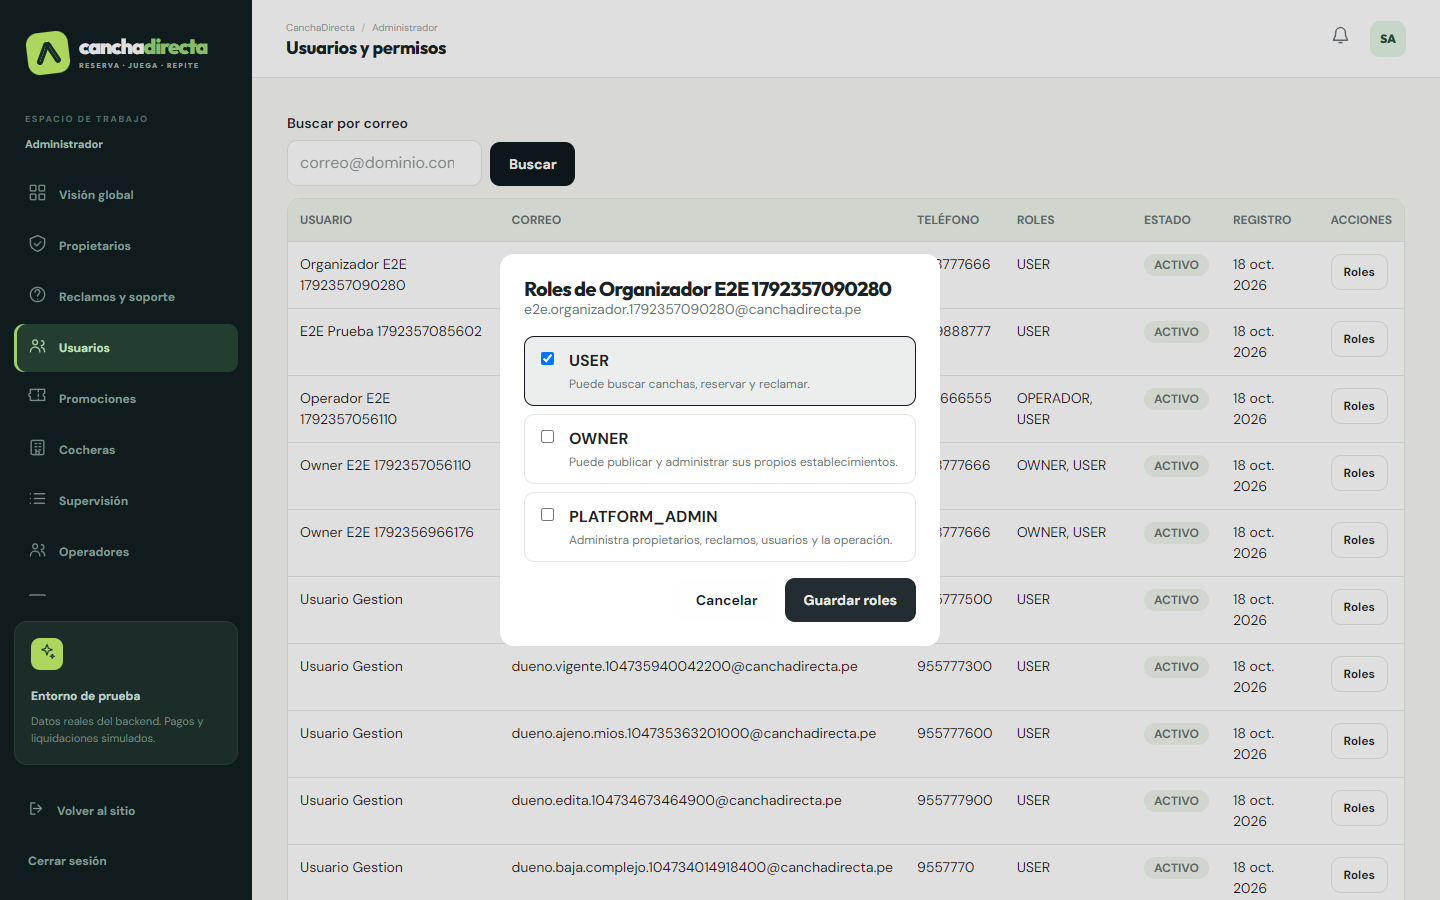
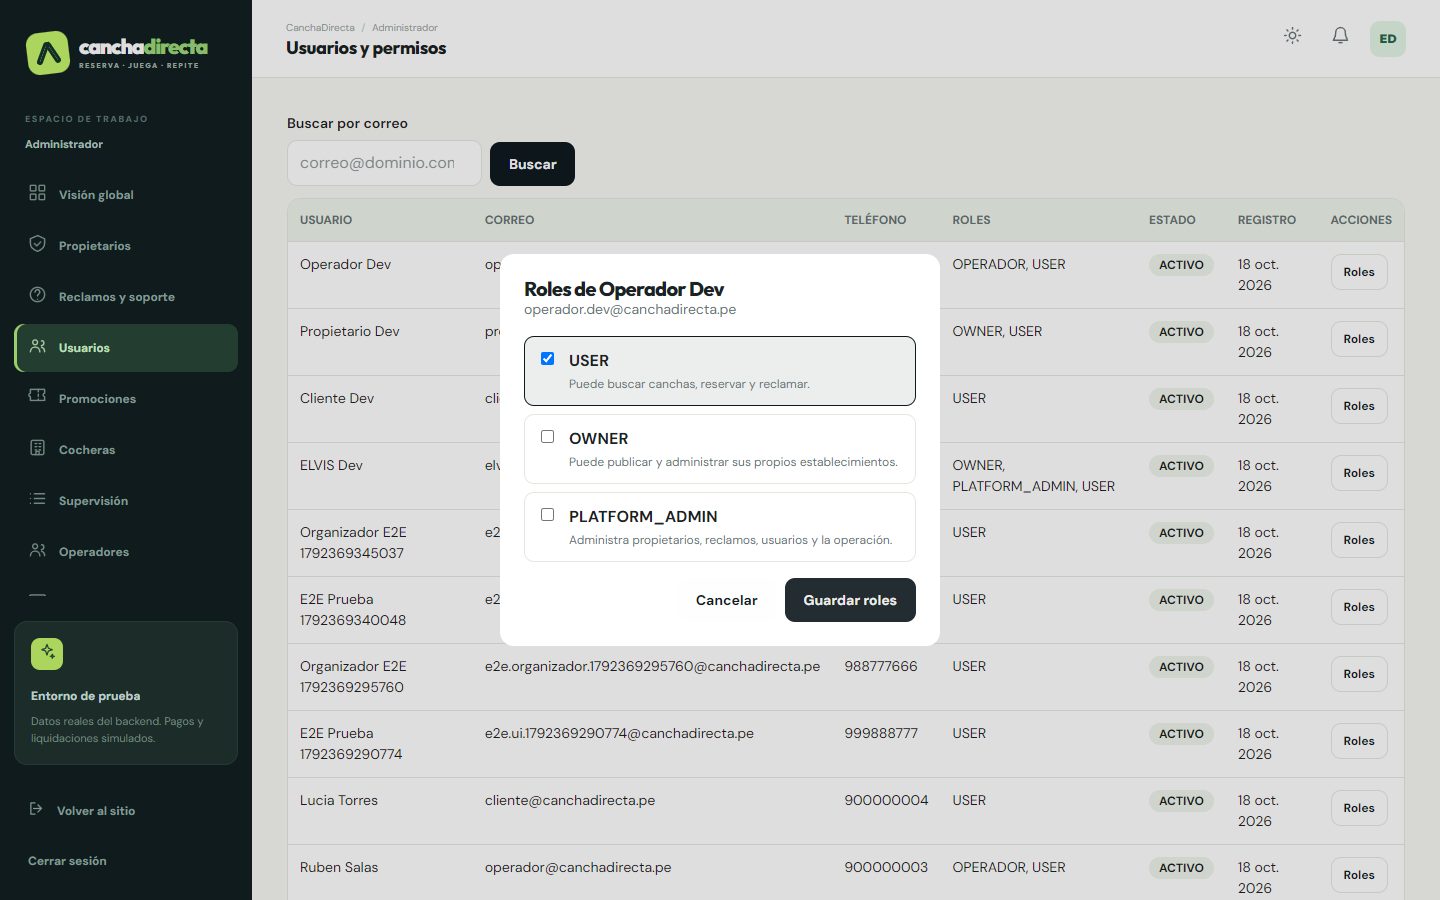
docs: imagenes en la arquitectura, cuentas dev y a11y privado verificado

diff --git a/docs/LIMITACIONES_CONOCIDAS.md b/docs/LIMITACIONES_CONOCIDAS.md
@@ -26,7 +26,7 @@ Solo limites verificados. Se actualiza al cerrarse o descubrirse otros.
 | L-20 | ~~Cambiar rol o estado no revoca los tokens ya emitidos~~ **RESUELTA** | `usuario.token_version` viaja en el JWT (`ver`); un filtro posterior a la autenticacion rechaza tokens con version desactualizada. Se incrementa al cambiar roles, estado o contrasena | - | **Verificado:** `EndurecimientoAccesoTest` y `AdminUsuariosTest` (token viejo `401 UNAUTHENTICATED`) |
 | L-21 | ~~Las promociones son solo catalogo~~ **RESUELTA** | El propietario da de alta sus promociones (ADR-0030) y la reserva aplica `monto_descuento`; el pago y la liquidacion lo toman del total | - | **Verificado:** 10% sobre 80 deja descuento 8.00 y pago 72.00; tope al precio; `409` por codigo invalido; E-31 |
 | L-22 | ~~El backend no expone el listado de establecimientos propios~~ **RESUELTO** | `GET /establecimientos/mios` lista los establecimientos del usuario autenticado | El panel los descubre automáticamente y deja de depender del ID manual/localStorage | Implementado y cubierto por `EdicionYBajaVenuesTest` (propio incluido, ajeno excluido) |
-| L-23 | UI secundaria del frontend pendiente | Alcance priorizado al núcleo de Fase 4 | Resuelto: detalle rediseñado, calendario semanal, paginación, edición de cancha, fotos, edición/baja de establecimiento, reenvío de verificación, admin de promociones/cocheras/roles en modal y E2E de ambos flujos. Revisión de accesibilidad automatizada (2026-10-19): skip link, foco visible, contraste 5.44:1, foco atrapado en modal y visor de fotos, `main`/`h1` únicos, tablas con nombre accesible, paginador que anuncia el rango y foco que pasa al contenido al cambiar de pantalla; cubre también las 12 rutas públicas y de acceso (`A11Y_SIN_SESION=1`), antes fuera de la suite | Pendiente solo revisión manual con lector de pantalla, fuera del alcance de la entrega |
+| L-23 | UI secundaria del frontend pendiente | Alcance priorizado al núcleo de Fase 4 | Resuelto: detalle rediseñado, calendario semanal, paginación, edición de cancha, fotos, edición/baja de establecimiento, reenvío de verificación, admin de promociones/cocheras/roles en modal y E2E de ambos flujos. Revisión de accesibilidad automatizada (2026-10-19): skip link, foco visible, contraste 5.44:1, foco atrapado en modal y visor de fotos, `main`/`h1` únicos, tablas con nombre accesible, paginador que anuncia el rango y foco que pasa al contenido al cambiar de pantalla. 46 rutas PASS: 12 públicas y de acceso (`A11Y_SIN_SESION=1`, incluye `/auth/*`) y 34 privadas con una cuenta `PLATFORM_ADMIN` | Pendiente solo revisión manual con lector de pantalla (guion en `docs/ACCESIBILIDAD_MANUAL.md`) |
 | L-24 | ~~El walk-in pagado en mostrador seguía `PENDIENTE` y no podía hacer check-in~~ **RESUELTA EN LO OPERATIVO** | `RecepcionService.confirmarEnMostrador` confirma la reserva al cobrar en caja (walk-in con pago y `/recepcion/reservas/{id}/cobro`) con traza en el historial y aviso; la tarjeta ofrece check-in a toda `CONFIRMADA` (ADR-0048) | La reserva presencial **sin cuenta** sigue exigiendo un cliente registrado: es una decisión de producto pendiente | **Verificado:** `RecepcionTest`, 4/4 unitarios de la tarjeta, humo PS y Bash (walk-in `CONFIRMADA`, `409` al reconfirmar, cobro que confirma) y E2E propietario/admin (`recepcion-walkin-1440.png`; E-57). Evaluar "cuenta express" si el negocio lo pide |
 | L-25 | ~~El portal de recepcion no gestiona bloqueos de cancha~~ **RESUELTA** | `VenuesRepositorio.esGestorDeCancha` acepta al personal asignado a la sede y la "Agenda del dia" del portal reutiliza `/canchas/{id}/bloqueos` (ADR-0042) | - | **Verificado:** `RecepcionTest` (el operador bloquea y levanta en su sede; `403` en cancha ajena, al crear horarios y con un `USER` sin asignacion) y E2E propietario/admin (alta y baja desde la UI; E-51) |
 | L-26 | ~~El calendario publicado muestra un bloqueo como "Sin cupo", igual que una reserva~~ **RESUELTA** | `GET /canchas/{id}/disponibilidad` agrega `ocupadas[]` con `{inicio,fin,estado}` (`RESERVADA`/`BLOQUEADA`) y la rejilla de la ficha rotula cada hora ocupada con su motivo; los días sin agenda muestran "Cerrado" también en los chips de día | - | **Verificado:** backend 163/163 (`laDisponibilidadDistingueReservaYBloqueo`), humo PS y Bash con la franja reservada/bloqueada, E2E propietario/admin (franja reservada y bloqueada en la rejilla y en la ficha pública, `ficha-motivos-1440.png`; E-56) |

diff --git a/docs/CUENTAS_DESARROLLO.md b/docs/CUENTAS_DESARROLLO.md
@@ -1,0 +1,54 @@
+# Cuentas de desarrollo
+
+Cuentas locales para probar cada perfil. **Solo entorno de desarrollo**: la clave es conocida y
+debil (8 digitos), nunca debe existir en un despliegue real.
+
+Todas las cuentas nuevas se crean con `scripts/usuario-dev.ps1`, que registra la cuenta por la API
+(el backend hashea la clave) y asigna roles y perfil por SQL con las credenciales de `.env`.
+
+## Cuentas nuevas (clave `12345678`)
+
+| Perfil | Correo | Clave | Roles | Pantallas |
+|---|---|---|---|---|
+| Superadministrador | `elvis@canchadirecta.pe` | `12345678` | USER, OWNER, PLATFORM_ADMIN | Todo: publico, cuenta, `/panel`, `/recepcion`, `/admin` |
+| Cliente | `cliente.dev@canchadirecta.pe` | `12345678` | USER | Publico, cuenta (`/mi-resumen`, `/mis-reservas`, ...) |
+| Propietario | `propietario.dev@canchadirecta.pe` | `12345678` | USER, OWNER (propietario validado) | `/panel` y sus secciones |
+| Operador de recepcion | `operador.dev@canchadirecta.pe` | `12345678` | USER, OPERADOR (vinculado a la primera sede) | `/recepcion` y sus secciones |
+
+El propietario y el operador recien creados no tienen canchas ni reservas propias: el panel y la
+recepcion muestran estados vacios hasta que se les asigne un establecimiento. Para datos completos
+usar las cuentas demo.
+
+## Cuentas demo existentes
+
+Se recrean con `.\scripts\demo-reset.ps1 -Force`.
+
+> `demo-reset.ps1 -Force` borra la base: las cuentas de desarrollo (`elvis@`, `*.dev@`) desaparecen.
+> Despues del reset hay que volver a ejecutar `scripts/usuario-dev.ps1` para cada perfil.
+
+| Perfil | Correo | Clave | Notas |
+|---|---|---|---|
+| Cliente | `cliente@canchadirecta.pe` | `DemoCancha2026` | Con reservas y favoritos sembrados |
+| Propietario | `propietario@canchadirecta.pe` | `DemoCancha2026` | Con sedes, canchas, agenda y liquidaciones |
+| Operador | `operador@canchadirecta.pe` | `DemoCancha2026` | Vinculado a la sede demo |
+
+## Superadministrador del `.env`
+
+`ADMIN_CORREO` / `ADMIN_PASSWORD` de `.env` corresponden al administrador que crea
+`demo-reset.ps1`. `scripts/usuario-dev.ps1` no los modifica ni los imprime. Si se cambia esa clave
+en `.env`, el siguiente `demo-reset.ps1 -Force` la vuelve a aplicar.
+
+## Crear o actualizar una cuenta
+
+```powershell
+# Superadministrador (por defecto)
+.\scripts\usuario-dev.ps1
+
+# Otros perfiles
+.\scripts\usuario-dev.ps1 -Correo cliente2@canchadirecta.pe -Nombres Cliente -Rol USER
+.\scripts\usuario-dev.ps1 -Correo propietario2@canchadirecta.pe -Nombres Propietario -Rol OWNER
+.\scripts\usuario-dev.ps1 -Correo operador2@canchadirecta.pe -Nombres Operador -Rol OPERADOR
+```
+
+El script es idempotente: si la cuenta existe, verifica la clave y completa roles y perfil. Si la
+clave no coincide se detiene sin tocar la cuenta (usar otro correo o recuperar la clave).

diff --git a/docs/ARQUITECTURA.md b/docs/ARQUITECTURA.md
@@ -6,6 +6,8 @@ Monolito modular + arquitectura hexagonal (Clean Architecture). Un backend, una 
 MySQL, un frontend Angular. Sin microservicios, mensajeria, Redis ni Kubernetes por
 defecto (ADR-0001).
 
+![Contexto del sistema](evidencias/diagramas/01-contexto.png)
+
 ## 2. Modulos (capacidades de negocio)
 
 | Modulo | Responsabilidad |
@@ -22,6 +24,8 @@ defecto (ADR-0001).
 | `helpcenter` | centro de ayuda: categorias, articulos y busqueda |
 | `platform` | operaciones globales: usuarios/roles, propietarios, supervision, auditoria, configuracion, reportes, promociones y cocheras |
 | `shared` | RFC 9457, seguridad JWT/JWKS, reloj, storage y utilidades transversales |
+
+![Modulos del backend](evidencias/diagramas/03-modulos.png)
 
 ## 3. Capas por modulo
 
@@ -60,6 +64,8 @@ POST /api/v1/bookings  [Idempotency-Key]
   -> (fuera del lock) resultado de pago simulado en nueva transaccion idempotente
   -> transicion CONFIRMADA / CANCELADA + notificacion
 ```
+
+![Secuencia de la reserva concurrente](evidencias/diagramas/04-reserva-concurrente.png)
 
 ### 4.1 Flujo del pago simulado y reembolso (ADR-0020)
 
@@ -117,6 +123,10 @@ servidor, la misma que la llena por defecto) y la finalizacion mide `fin` contra
 (la columna es un literal UTC). Cada job compara contra el mismo marco horario que su columna; ninguno
 depende de la zona del servidor.
 
+### 4.4 Estados de la reserva
+
+![Estados de la reserva](evidencias/diagramas/05-estados-reserva.png)
+
 ## 5. Contrato REST
 
 Bajo `/api/v1`. Errores RFC 9457 (Problem Details) con `code` de negocio
@@ -126,8 +136,10 @@ Bajo `/api/v1`. Errores RFC 9457 (Problem Details) con `code` de negocio
 ## 6. Persistencia
 
 MySQL 8 (host), InnoDB, utf8mb4. **Flyway es dueno del esquema**; Hibernate solo
-valida. Migraciones `V1..V6` (ver `MODELO_DATOS.md`). Usuario de migracion y de
+valida. Migraciones `V1..V18` (ver `MODELO_DATOS.md`). Usuario de migracion y de
 runtime separados (ADR-0009).
+
+![Modelo de datos principal](evidencias/diagramas/07-modelo-datos.png)
 
 ## 7. Frontend
 
@@ -137,9 +149,13 @@ apoyo de UX (nunca unica seguridad), CSS con design tokens y tema claro/oscuro, 
 WCAG 2.2 AA, estados loading/empty/error/success en todas las areas. Los portales se resumen en
 `DIAGRAMAS.md`.
 
+![Portales del frontend](evidencias/diagramas/06-portales-frontend.png)
+
 ## 8. Infraestructura
 
 Dockerfiles multi-stage no-root, Nginx con fallback SPA y proxy `/api`, Compose con variante
 host (`host.docker.internal`) y variante MySQL aislado (`compose.mysql.yml`, :3309), healthchecks,
 JWKS montado de solo lectura, `.env.example` y `.dockerignore`. Puertos por defecto: frontend
 :8083, backend :8089 (contenedor :8080), MySQL del host :3306.
+
+![Despliegue con Compose](evidencias/diagramas/02-despliegue.png)

diff --git a/HANDOFF.md b/HANDOFF.md
@@ -27,12 +27,11 @@
 - Pruebas: backend **163/163**, humo **153/153** (PowerShell) y **134/134** (Bash), unitarios
   **28/28**, E2E usuario **OK**, E2E propietario/admin **OK**, accesibilidad **34 rutas OK** y
   contraste **OK** en los 4 portales y ambos modos.
-- Accesibilidad ampliada (2026-10-19): la suite ahora verifica también `main`/`h1` únicos, tablas
-  y diálogos con nombre accesible, foco al contenido tras navegar y el visor de fotos atrapado
-  con retorno de foco; además cubre las 12 rutas públicas y de acceso con
-  `A11Y_SIN_SESION=1` (12/12 PASS). La pasada privada de 34 rutas debe re-ejecutarse con
-  `ADMIN_PASSWORD` para las comprobaciones nuevas: la última corrida completa (2026-10-18) fue
-  34 rutas OK.
+- Accesibilidad ampliada (2026-10-19): la suite verifica `main`/`h1` únicos, tablas y diálogos
+  con nombre accesible, foco al contenido tras navegar y el visor de fotos atrapado con retorno
+  de foco. Resultado: **46 rutas PASS** (12 públicas y de acceso con `A11Y_SIN_SESION=1` y las 34
+  privadas con `elvis@canchadirecta.pe`), más teclado, skip link y foco al navegar. La auditoría
+  quedó sin paginador por volumen de datos (se informa, no falla).
 - Ficha de espacio implementada (2026-10-18): `GET /api/v1/establecimientos/{id}/ficha`,
   ruta `/establecimientos/:id` y enlace desde el detalle de cancha.
 - Actividades reales implementadas (2026-10-18): migración `V14`, API de actividades e
@@ -662,8 +661,6 @@ Prioridad inmediata:
    `frontend/e2e/contraste-modos.mjs`, la estructura/teclado con `a11y-check.mjs` —incluida la
    variante `A11Y_SIN_SESION=1` para `/auth/*`— y el guion paso a paso en
    `docs/ACCESIBILIDAD_MANUAL.md`).
-2. Re-ejecutar `npm run test:a11y` como `PLATFORM_ADMIN` para pasar las comprobaciones nuevas
-   (tablas con nombre, `main`/`h1` únicos) por las 34 rutas privadas.
 
 **Estado:** entrega base cerrada el 2026-10-17; rediseno de fusion, integraciones del standalone y
 bloques A/B/C/D del delta completados el 2026-10-18, más badge de notificaciones, modo claro/oscuro,
@@ -674,8 +671,8 @@ regenerable con `.\scripts\demo-reset.ps1 -Force`.
 Acta: `docs/ACTA_CIERRE.md`.
 
 Cuenta superadministrador local (roles `USER`, `OWNER`, `PLATFORM_ADMIN`):
-`admin@canchadirecta.pe`; la clave esta en `.env` (`ADMIN_PASSWORD`) y se usa tambien en los
-E2E del propietario/admin.
+`elvis@canchadirecta.pe` (clave `12345678`, entorno dev). Las cuentas por perfil y la del `.env`
+estan en `docs/CUENTAS_DESARROLLO.md`.
 
 Notas de la última sesión:
 - Node 22.13 del host no cumple Angular 22 (`>=22.22.3`); se usó un Node 24.22 portable en

diff --git a/docs/ACTA_CIERRE.md b/docs/ACTA_CIERRE.md
@@ -35,7 +35,7 @@
 | Pruebas unitarias frontend | `npm test -- --watch=false` | 15/15 PASS |
 | Flujo de usuario en navegador | `npm run test:e2e` (Docker 8083) | 15/15 PASS |
 | Flujo propietario/admin en navegador | `npm run test:e2e:owner` | 28/28 PASS |
-| Accesibilidad de teclado y estructura | `npm run test:a11y` (E-42) + E-41 + variante `A11Y_SIN_SESION=1` | 12 rutas públicas y de acceso PASS (2026-10-19) con `main`/`h1` únicos, tablas y diálogos con nombre, foco al contenido al navegar y visor de fotos atrapado; la pasada de 34 rutas privadas debe re-ejecutarse con `ADMIN_PASSWORD` |
+| Accesibilidad de teclado y estructura | `npm run test:a11y` (E-42) + E-41 + variante `A11Y_SIN_SESION=1` | 46 rutas PASS (2026-10-19): 12 públicas y de acceso y 34 privadas con `main`/`h1` únicos, tablas y diálogos con nombre, foco al contenido al navegar y visor de fotos atrapado |
 | Stack Docker operativo | `/q/health/ready`, frontend 8083 | 200 / 200 |
 
 ## 3. Evidencias

diff --git a/docs/PRUEBAS.md b/docs/PRUEBAS.md
@@ -57,7 +57,9 @@ $env:BASE='http://localhost:8083'; $env:A11Y_SIN_SESION='1'; npm run test:a11y
 nombres accesibles en controles, campos, imagenes, tablas y dialogos), enlace de salto,
 recorrido de teclado, foco que pasa al contenido al cambiar de pantalla y capturas. La variante
 `A11Y_SIN_SESION=1` cubre ademas `/auth/*`, que el guard de invitado esconde con sesion iniciada.
-La revision con lector de pantalla se guia con `docs/ACCESIBILIDAD_MANUAL.md`.
+La revision con lector de pantalla se guia con `docs/ACCESIBILIDAD_MANUAL.md`. Las cuentas por
+perfil para pruebas manuales estan en `docs/CUENTAS_DESARROLLO.md` (clave `12345678`; por ejemplo
+`elvis@canchadirecta.pe` para la pasada completa).
 
 Testcontainers requiere Docker operativo (Docker ya operativo: migrar los tests de integracion,
 ver `L-09`).

diff --git a/README.md b/README.md
@@ -137,8 +137,8 @@ Detalle en [`docs/DEPLOY_DOCKER.md`](docs/DEPLOY_DOCKER.md).
 
 `docs/` - requisitos y reconciliacion, trazabilidad, arquitectura, [diagramas](docs/DIAGRAMAS.md),
 modelo de datos, API, seguridad, UX, [diseño de fusión](docs/DISENO_FUSION.md), pruebas,
-[accesibilidad manual](docs/ACCESIBILIDAD_MANUAL.md), despliegue, decisiones (ADRs), limitaciones y
-[acta de cierre](docs/ACTA_CIERRE.md).
+[accesibilidad manual](docs/ACCESIBILIDAD_MANUAL.md), [cuentas de desarrollo](docs/CUENTAS_DESARROLLO.md),
+despliegue, decisiones (ADRs), limitaciones y [acta de cierre](docs/ACTA_CIERRE.md).
 
 ## Base de datos
 
